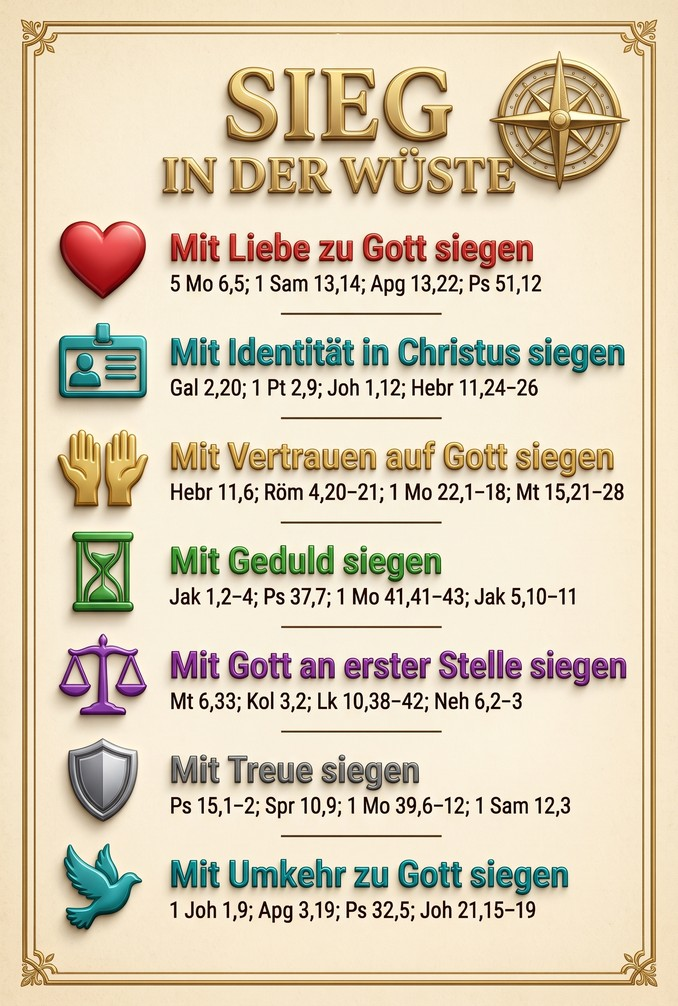
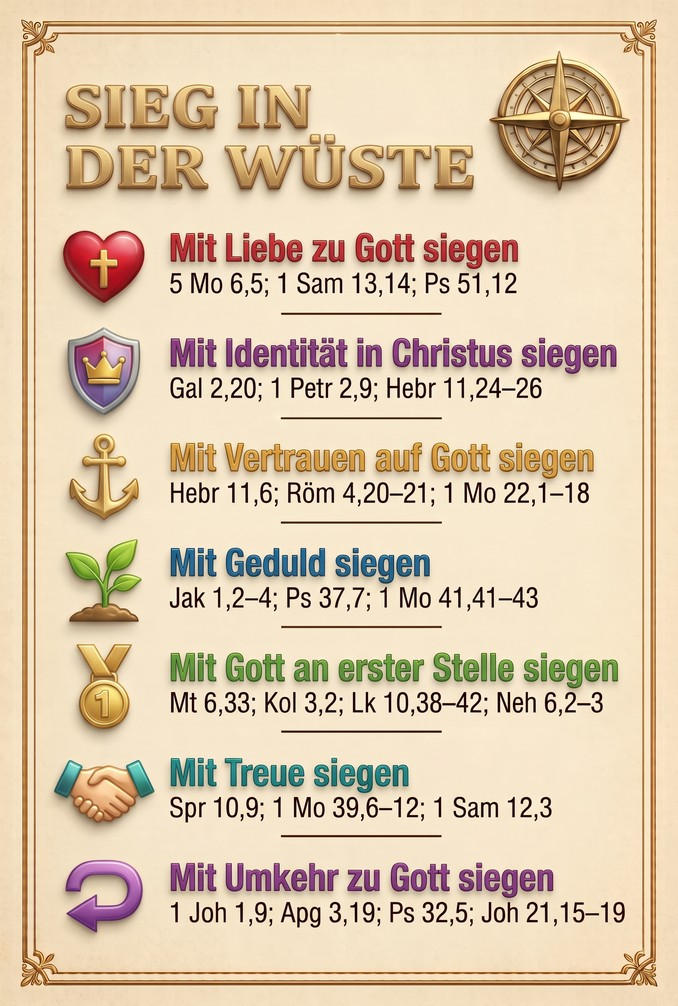
Karte 48: neue Rückseite (Gemini), Referenzen vereinheitlicht (1 Petr), max. vier Stellen
Claude-Session: https://claude.ai/code/session_0124h5yDy6USGZ8DS8E24Fju

diff --git a/card-text.js b/card-text.js
@@ -49,7 +49,7 @@ window.COR_DEO_TEXT = {
  "45": "DER WILLE DES VATERS IST: DEIN WILLE GESCHEHE, Mt 6,10 | PETRUS IN GETHSEMANE | JESUS IN GETHSEMANE | Mt 26,51–54 | Mt 26,39.42 | unterwerfe ich mich oder widersetze ich mich dem willen gottes? | Sich dem Willen Gottes hingeben | Sich Gottes Willen unterwerfen | 1 Mo 22,1–3; Mt 26,39 | Gott im Leiden vertrauen | 1 Mo 22,8; Mt 26,39 | Leiden führt zu Gottes Willen | 1 Mo 22,6–10; Mt 26,42 | Eigene Wünsche Gottes Plan anpassen | 1 Mo 22,2.10; Mt 26,39.42 | Hingabe statt eigener Anstrengung | 1 Mo 22,9–12; Mt 26,52–54 | Gottes Kraft und Zeit vertrauen | 1 Mo 22,8.13–14; Mt 26,53 | Der Versuchung widerstehen | 1 Mo 22,3.12; Mt 26,41",
  "46": "DER WILLE DES VATERS IST: ER FORMT MICH, Jes 64,7 | KÖNIG SAUL | JOSEF | 1 Sam 13,8–14 | 1 Mo 37–50 | lasse ich gott den töpfer sein oder übernehme ich die kontrolle? | Geformt für Seine Herrlichkeit | Gott als den Töpfer annehmen | Jes 64,7; Jer 18,6; Röm 9,21 | Gottes Güte vertrauen | 1 Mo 45,7–8; Hi 42,2; Röm 8,28 | Mit Gottes Souveränität mitwirken | 1 Mo 50,20; Spr 16,9; Phil 2,12–13 | Sich mit Gottes Absichten ausrichten | 1 Mo 45,7–8; 1 Sam 13,13–14; Eph 2,10 | Durch Prüfungen wachsen | Ps 105,19; 1 Mo 39,20–23; Röm 5,3–4 | Gehorsam an erste Stelle setzen | 1 Sam 15,22; Joh 14,15; Jak 1,22 | Vergebung im Herzen tragen | 1 Mo 50,15–21; 1 Mo 45,4–5; Eph 4,32",
  "47": "DER WILLE DES VATERS IST: SICH GOTT HINGEBEN, Jes 64,7 | ISRAEL IN DER WÜSTE | JESUS IN DER WÜSTE | 2 Mo 16,1–32 | Mt 4,1–11 | vertraue ich gott oder gehe ich meinen eigenen weg? | Von Sinai zum Retter | Dein Herz wird geprüft | 5 Mo 8,2; Mt 4,1 | Deine Identität wird geprüft | 2 Mo 32,1; Mt 4,3.6 | Dein Glaube wird geprüft | 2 Mo 16,4; Mt 4,4 | Deine Geduld wird geprüft | 2 Mo 16,19–20; Mt 4,2–3 | Deine Prioritäten werden geprüft | 2 Mo 32,26; Mt 4,10 | Deine Integrität wird geprüft | 2 Mo 32,7–8; Mt 4,8–9 | Buße führt zur Wiederherstellung | 2 Mo 32,30–32; 1 Joh 1,9; Hebr 4,15–16",
- "48": "DER WILLE DES VATERS IST: SICH GOTT HINGEBEN, Jes 64,7 | ISRAEL AM SINAI | JESUS AUF DEM BERG | 2 Mo 32,1–8 | Mt 4,8–10 | vertraue ich gott oder gehe ich meinen eigenen weg? | SIEG IN DER WÜSTE | Mit Liebe zu Gott siegen | 5 Mo 6,5; 1 Sam 13,14; Apg 13,22; Ps 51,12 | Mit Identität in Christus siegen | Gal 2,20; 1 Pt 2,9; Joh 1,12; Hebr 11,24–26 | Mit Vertrauen auf Gott siegen | Hebr 11,6; Röm 4,20–21; 1 Mo 22,1–18; Mt 15,21–28 | Mit Geduld siegen | Jak 1,2–4; Ps 37,7; 1 Mo 41,41–43; Jak 5,10–11 | Mit Gott an erster Stelle siegen | Mt 6,33; Kol 3,2; Lk 10,38–42; Neh 6,2–3 | Mit Treue siegen | Ps 15,1–2; Spr 10,9; 1 Mo 39,6–12; 1 Sam 12,3 | Mit Umkehr zu Gott siegen | 1 Joh 1,9; Apg 3,19; Ps 32,5; Joh 21,15–19",
+ "48": "DER WILLE DES VATERS IST: SICH GOTT HINGEBEN, Jes 64,7 | ISRAEL AM SINAI | JESUS AUF DEM BERG | 2 Mo 32,1–8 | Mt 4,8–10 | vertraue ich gott oder gehe ich meinen eigenen weg? | Sieg in der Wüste | Mit Liebe zu Gott siegen | 5 Mo 6,5; 1 Sam 13,14; Ps 51,12 | Mit Identität in Christus siegen | Gal 2,20; 1 Petr 2,9; Hebr 11,24–26 | Mit Vertrauen auf Gott siegen | Hebr 11,6; Röm 4,20–21; 1 Mo 22,1–18 | Mit Geduld siegen | Jak 1,2–4; Ps 37,7; 1 Mo 41,41–43 | Mit Gott an erster Stelle siegen | Mt 6,33; Kol 3,2; Lk 10,38–42; Neh 6,2–3 | Mit Treue siegen | Spr 10,9; 1 Mo 39,6–12; 1 Sam 12,3 | Mit Umkehr zu Gott siegen | 1 Joh 1,9; Apg 3,19; Ps 32,5; Joh 21,15–19",
  "49": "Der Wille des Vaters ist; Gottes Zeitplan vertrauen, Eph. 1,11 | Saul | David | 1.Samuel 13.8-14 | 1.Samuel 24 | Wenn Gott sich verspätet, handle ich wie Saul oder warte ich wie David? | RUHEN IN GOTTES ZEIT | Gottes Zeit ist stets vollkommen | 1Mo 21,1–2, 1Mo 41,39–46, Gal 4,4; Lk 2,6–7 | Vertraue seinem Sinn in Verzögerungen | 1Mo 6–7, 1Sam 16,13, 1Sam 1,9–20 | Warte im Glauben, nicht im Schauen Lk 2,25–32; Jos 2,8–14; Hebr 11,31 | Warten reift deinen Charakter | Hi 1–42; Jak 5,11, 1Mo 39–45 | Warte aktiv: Bete & gehorche | Dan 6,11–24, Apg 10,1–4 | Ungeduld bringt Verlust | 4Mo 14,1–23, 1Sam 13,8–14 | Hoffe auf Gottes letzten Plan | Hebr 11,10.16, Hebr 10,34–36",
  "50": "DER WILLE DES VATERS IST: HOFFNUNG | RÖM. 15,13 | KÖNIG SAUL | ABRAHAM | 1. SAMUEL 28 | RÖMER 4 | IN DER KRISE: WÄHLE ICH GLAUBEN WIE ABRAHAM ODER VERZWEIFLUNG WIE SAUL? | Erforsche mich, o Gott ... | Vermeide Sauls zerstörerisches Verhalten | Ungeduld – brachte ein unerlaubtes Opfer dar (1. Samuel 15,22–23) | Gottlose Beratung – suchte eine Totenbeschwörerin auf (1. Samuel 28 | Geistliche Blindheit – beschuldigte andere, bereute nicht (1. Samuel 15,24) | Tragisches Ende – nahm sich das Leben. ohne zu Gott umzukehren (1. Samuel 31,3) | „Hoffnung findet man nicht in Kontrolle, sondern in Hingabe.“ | Lebe Abrahams aufbauendes Verhalten | Glaube – vertraute auf Gottes Zeitplan | Gehorsam – folgte Gottes Ruf (1. Mose 12,1-4) | Gott suchen – baute Altäre, betete (1. Mose 12,4 | Demut – trat für Sodom ein (1. Mose 18,22–33) | Hoffnung – glaubte an Gottes Versorgung | Psalm 139,24",
  "51": "Dem Willen Gottes folgen – Geduldig und schrittweise geleitet | Gottes Treue auf dem Weg | 5Mo 29,5; Jos 14,10–13; 1Mo 39,2–3 | Er begegnet ehrlichen Zweifeln | Ri 6,36–40; Joh 20,27–29; 2Mo 3,11–12 | Seine Führung entfaltet sich schrittweise | 1Mo 12,1–9; Rt 1,16; 4,13–17; 1Sam 16,13; 2 Sam 5,4 | In Seinen Willen eintreten – Geduldige, prozessorientierte Führung | Er zieht uns immer wieder zu sich | Joh 21,15–19; Ri 2,16–18; Jona 3,1–3 | Der Prozess bringt geistliche Reife | 1. Mose 41,38–41; Gal 1,17–18; 2.Tim 1,5–6 | Gott wird das begonnene Werk vollenden | Phil 1,6; Röm 4,21–22; Neh 6,15–16 | Gottes Liebe begleitet uns durch jede Phase | Lk 15,20–24; Jer 31,3; Ps 78,70–72",

diff --git a/sw.js b/sw.js
@@ -6,8 +6,8 @@
      sodass ein Update der Seite (VERSION erhöhen) die ~7,6 MB nicht erneut herunterlädt.
    - Fremde Adressen werden nicht angefasst (die Schriften liegen im Ordner fonts/ und werden wie Bilder aus dem Cache bedient).
    Bei Änderungen an diesem Skript: VERSION erhöhen. Bei neuen/geänderten Kartenbildern: IMG_CACHE erhöhen. */
-var VERSION = "cordeo-v99";
-var IMG_CACHE = "cordeo-img-v82";
+var VERSION = "cordeo-v100";
+var IMG_CACHE = "cordeo-img-v83";
 var CARD_COUNT = 120;                       // Anzahl der Bilddateien "COR DEO-Karten-001.jpg" … "-120.jpg"
 var PRECACHE_PARALLEL = 4;
 var SHELL = ["./", "index.html", "manifest.json", "pwa.js", "share.js", "legal.js", "card-text.js", "fonts/fonts.css", "share-qr.svg", "share-qr.png",
